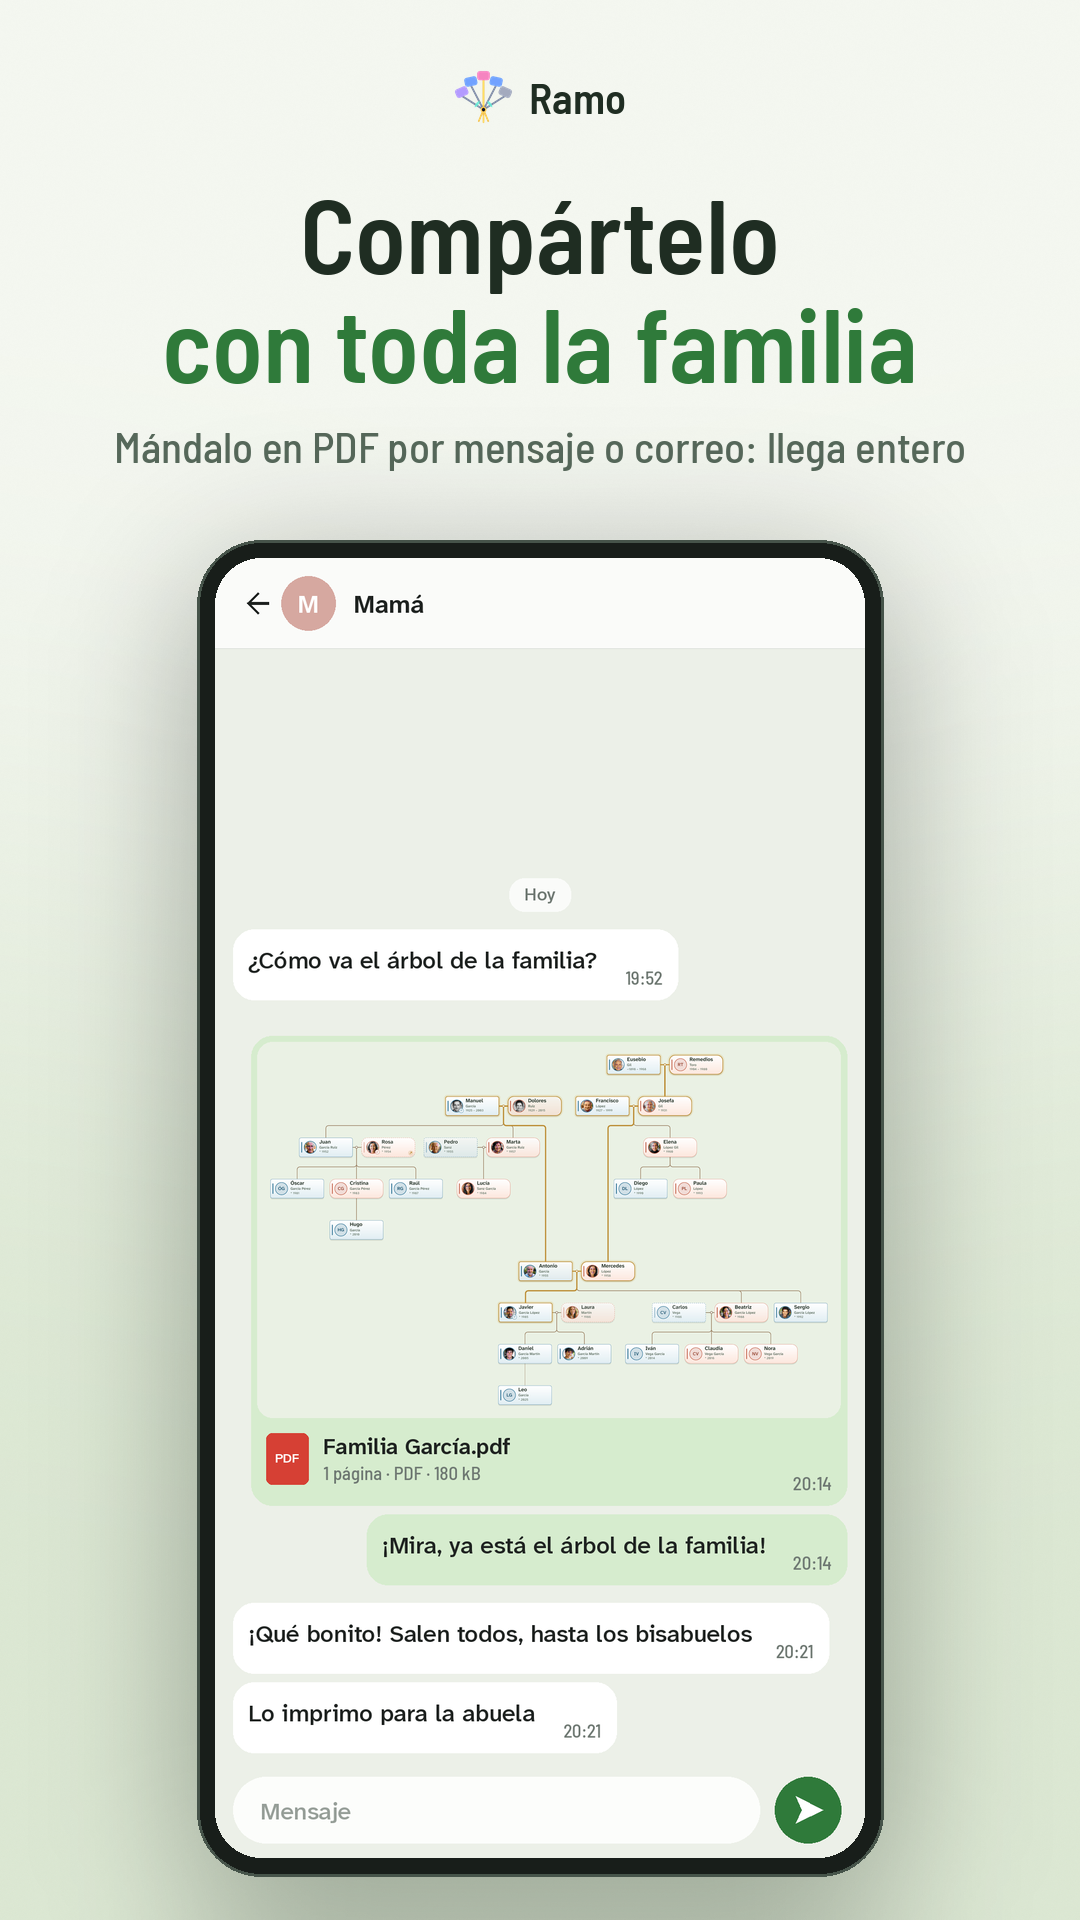
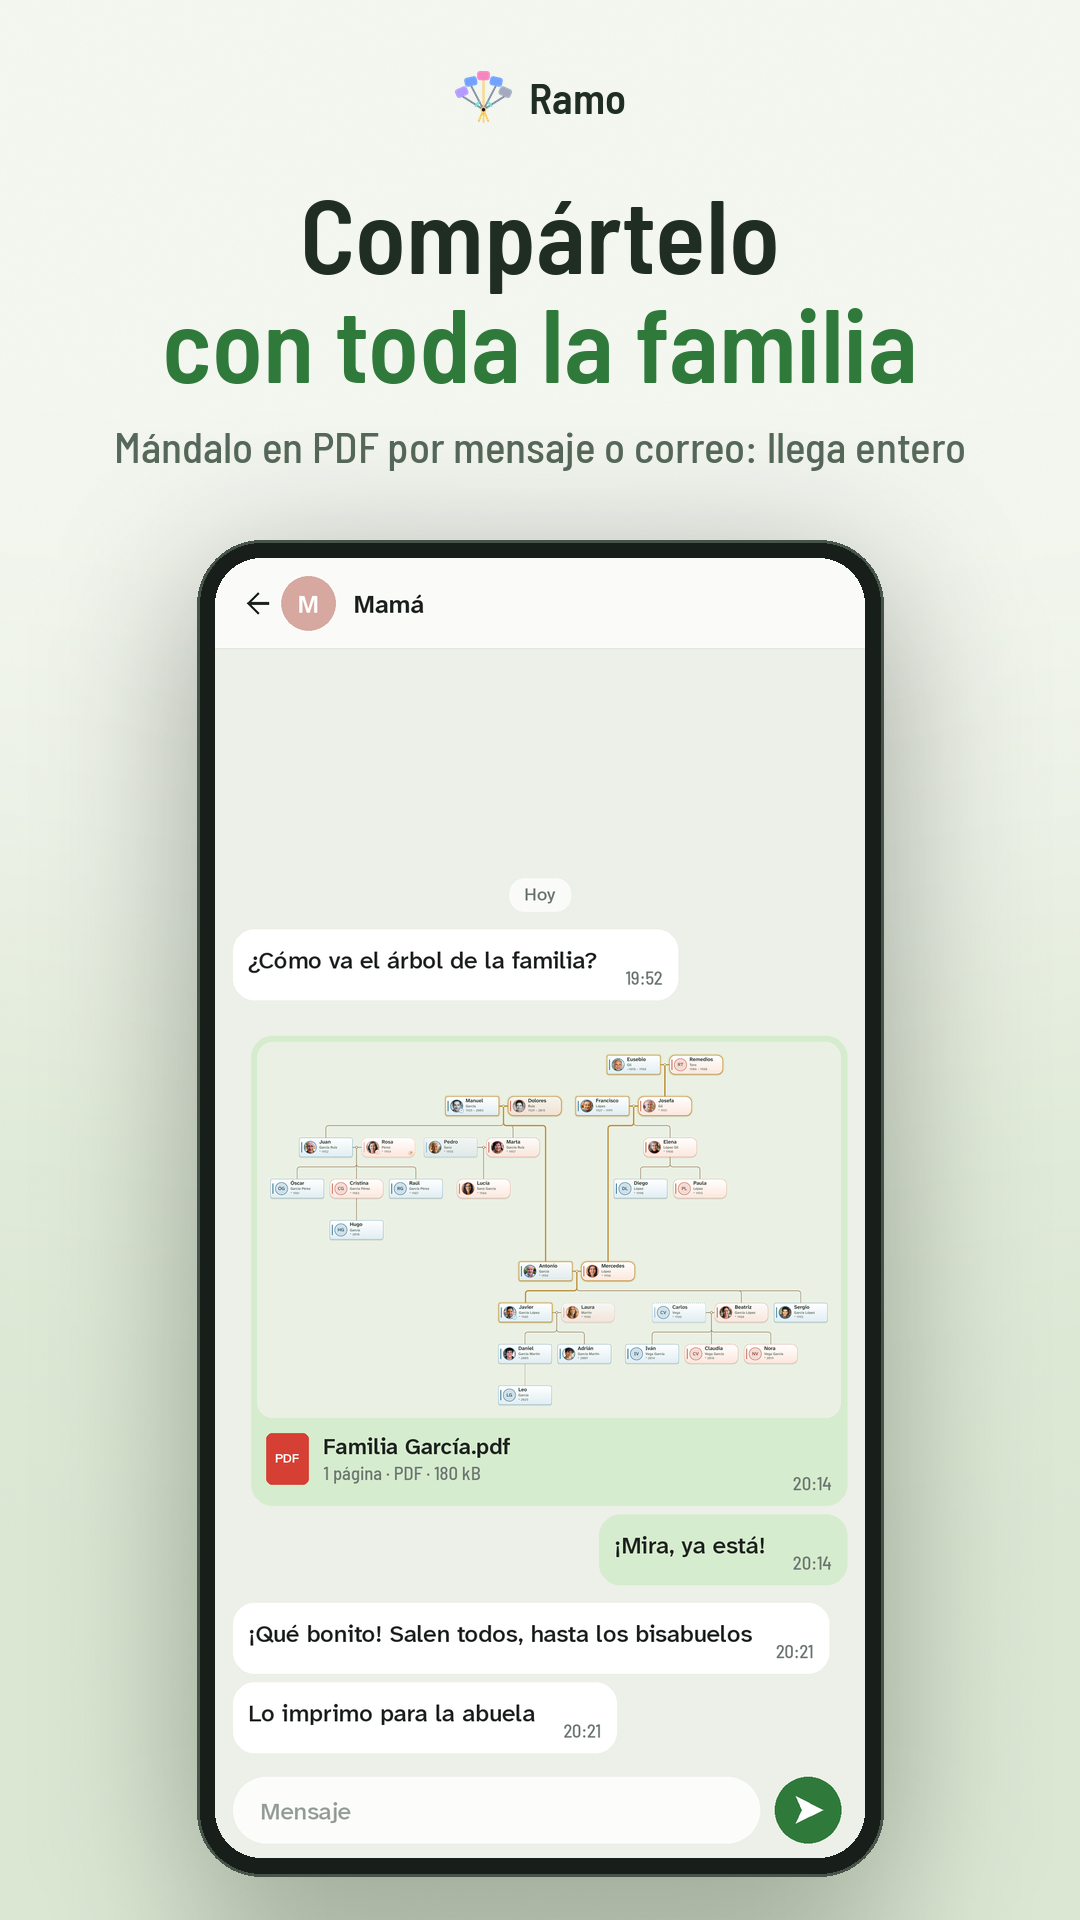
Tienda: en la captura de compartir, la respuesta es solo «¡Mira, ya está!»
Claude-Session: https://claude.ai/code/session_01V21Rbz2U8Pj3ec12ac5n9W

Changed region(s): [[0.3361, 0.7812, 0.6417, 0.8438], [0.6722, 0.7812, 0.7028, 0.8125]]

diff --git a/tienda/promo/enmarcar.py b/tienda/promo/enmarcar.py
@@ -280,12 +280,12 @@ def pdf_png(ruta, ancho):
 
 # la conversación en la que llega el PDF: con quién (la madre de Javier), lo que pregunta ella, lo que se dice y los textos de la aplicación de mensajes
 CHARLA = {
- "es": ("Mamá", "¿Cómo va el árbol de la familia?", "¡Mira, ya está el árbol de la familia!", "¡Qué bonito! Salen todos, hasta los bisabuelos", "Lo imprimo para la abuela", "1 página", "Mensaje"),
- "en": ("Mom", "How's the family tree going?", "Look, the family tree is ready!", "It's lovely! Everyone's there, even the great-grandparents", "I'll print it for Grandma", "1 page", "Message"),
- "fr": ("Maman", "Ça avance, l'arbre de la famille ?", "Regarde, l'arbre de la famille est prêt !", "Qu'il est beau ! Tout le monde y est, même les arrière-grands-parents", "Je l'imprime pour Mamie", "1 page", "Message"),
- "it": ("Mamma", "Come va l'albero di famiglia?", "Guarda, l'albero di famiglia è pronto!", "Che bello! Ci sono tutti, anche i bisnonni", "Lo stampo per la nonna", "1 pagina", "Messaggio"),
- "de": ("Mama", "Wie weit bist du mit dem Stammbaum?", "Schau, der Familienstammbaum ist fertig!", "Wie schön! Alle sind drauf, sogar die Urgroßeltern", "Ich drucke ihn für Oma aus", "1 Seite", "Nachricht"),
- "pt": ("Mãe", "Como está indo a árvore da família?", "Olha, a árvore da família está pronta!", "Que linda! Estão todos, até os bisavós", "Vou imprimir para a vovó", "1 página", "Mensagem"),
+ "es": ("Mamá", "¿Cómo va el árbol de la familia?", "¡Mira, ya está!", "¡Qué bonito! Salen todos, hasta los bisabuelos", "Lo imprimo para la abuela", "1 página", "Mensaje"),
+ "en": ("Mom", "How's the family tree going?", "Look, it's done!", "It's lovely! Everyone's there, even the great-grandparents", "I'll print it for Grandma", "1 page", "Message"),
+ "fr": ("Maman", "Ça avance, l'arbre de la famille ?", "Regarde, il est prêt !", "Qu'il est beau ! Tout le monde y est, même les arrière-grands-parents", "Je l'imprime pour Mamie", "1 page", "Message"),
+ "it": ("Mamma", "Come va l'albero di famiglia?", "Guarda, è pronto!", "Che bello! Ci sono tutti, anche i bisnonni", "Lo stampo per la nonna", "1 pagina", "Messaggio"),
+ "de": ("Mama", "Wie weit bist du mit dem Stammbaum?", "Schau, er ist fertig!", "Wie schön! Alle sind drauf, sogar die Urgroßeltern", "Ich drucke ihn für Oma aus", "1 Seite", "Nachricht"),
+ "pt": ("Mãe", "Como está indo a árvore da família?", "Olha, está pronta!", "Que linda! Estão todos, até os bisavós", "Vou imprimir para a vovó", "1 página", "Mensagem"),
 }
 
 def pantalla_pdf(equipo, l):
